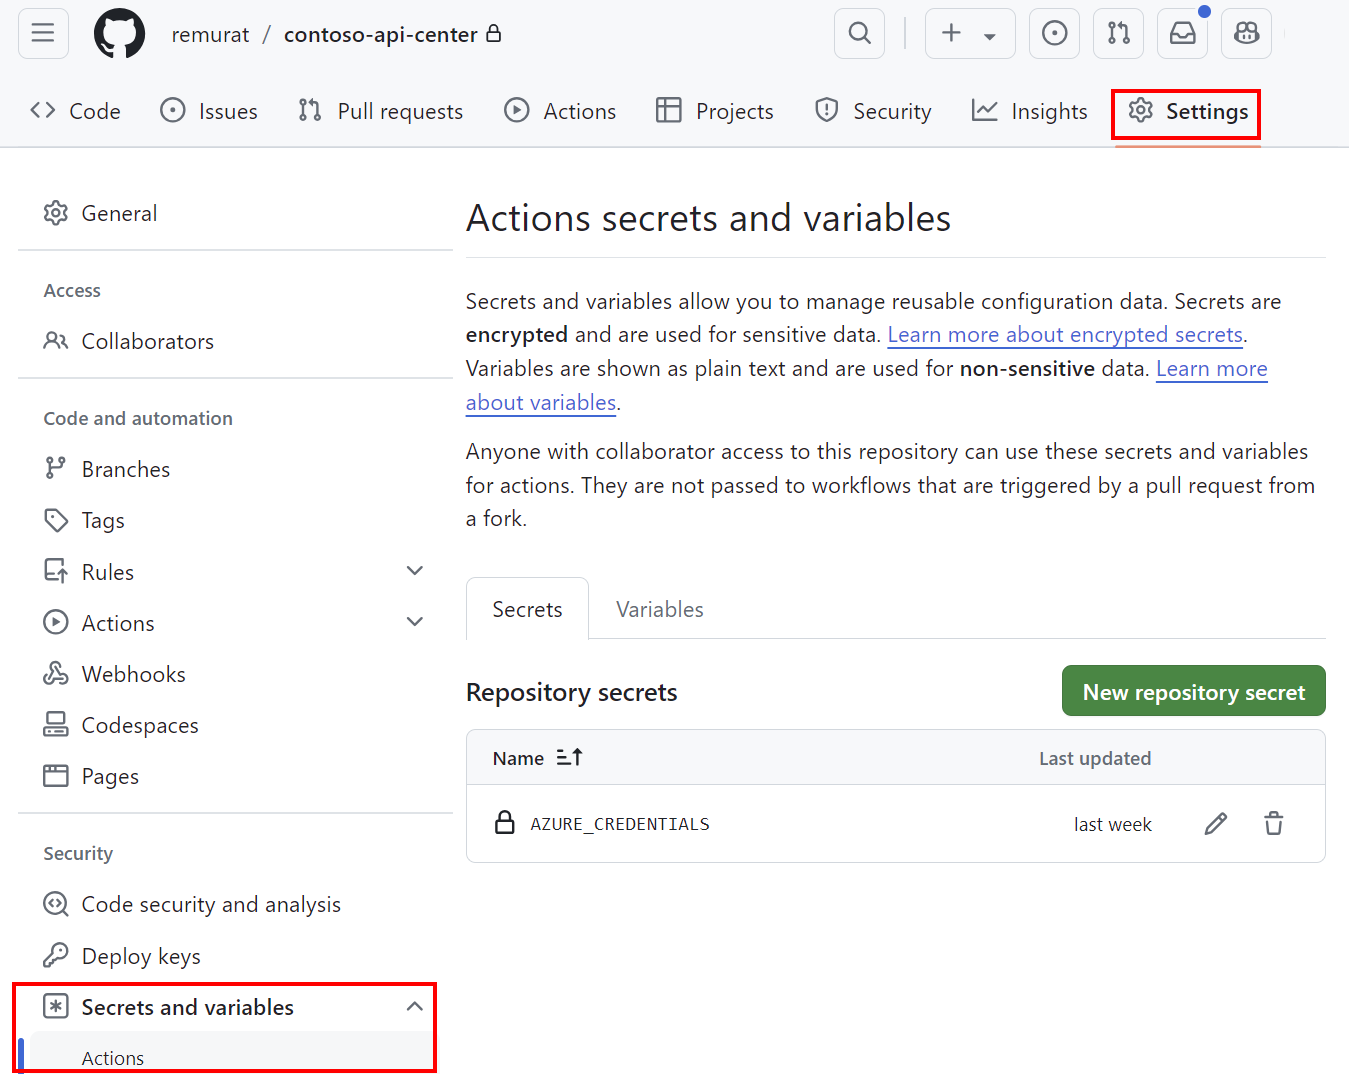
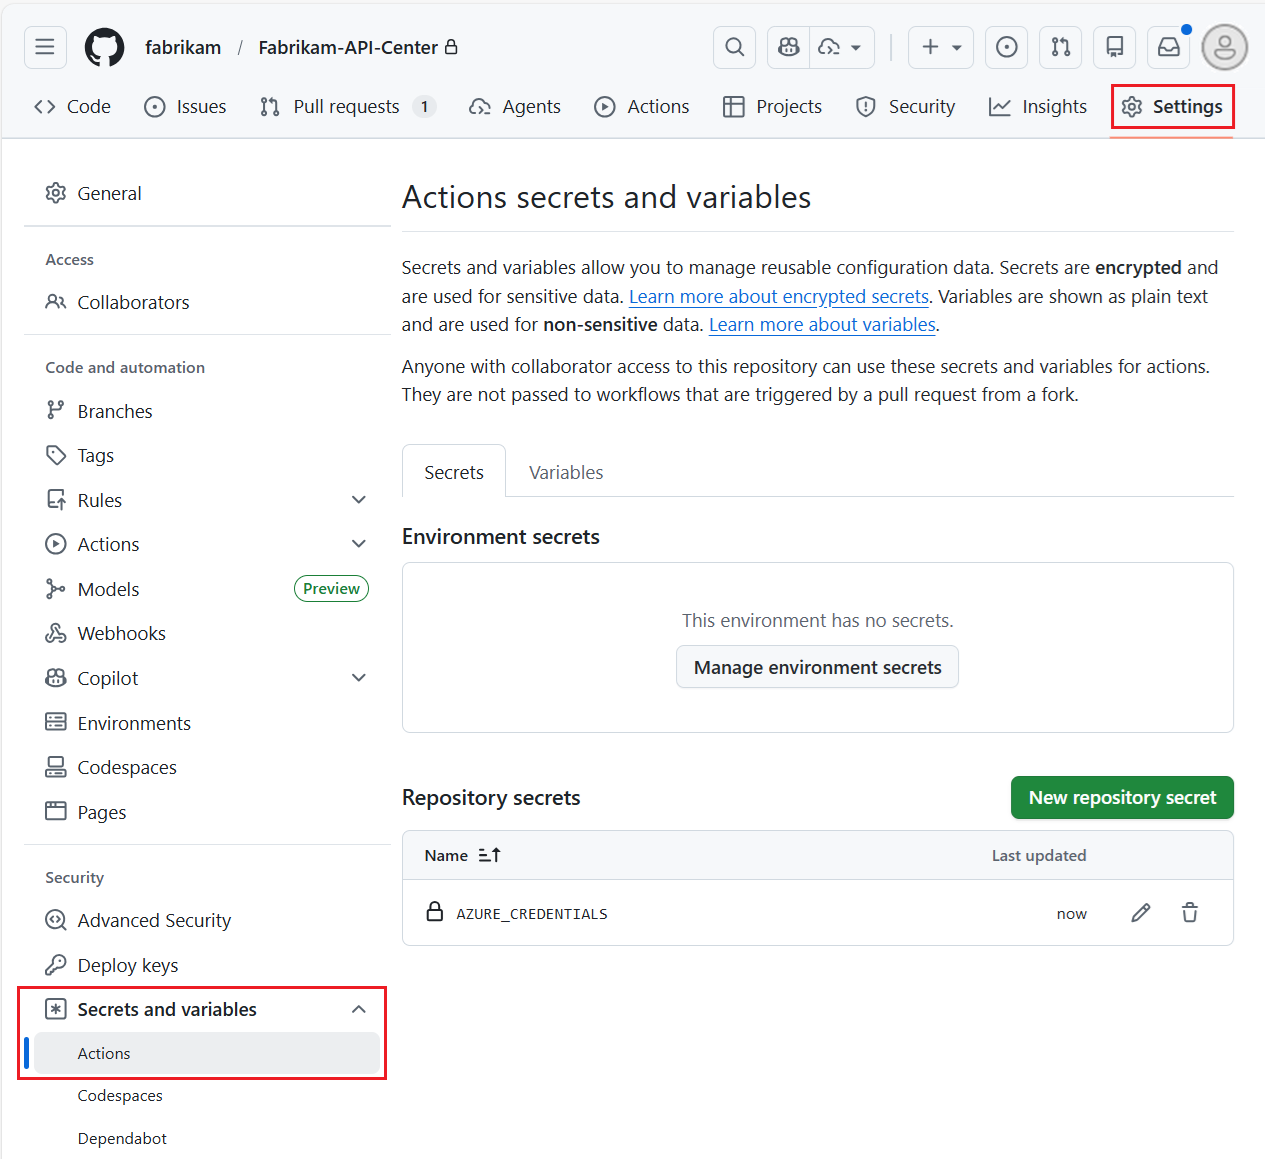
article freshness pass

diff --git a/articles/api-center/register-apis-github-actions.md b/articles/api-center/register-apis-github-actions.md
@@ -1,44 +1,51 @@
 ---
-title: Register APIs using GitHub Actions - Azure API Center
-description: Learn how to automate the registration of APIs in your API center using a CI/CD workflow based on GitHub Actions.
+title: Register APIs with GitHub Actions
+titleSuffix: Azure API Center
+description: Learn how to automate the registration of APIs in your API center by using a CI/CD workflow based on GitHub Actions.
 ms.service: azure-api-center
 ms.topic: how-to
-ms.date: 12/23/2024
-
-
+ms.date: 02/20/2026
+ms.author: danlep
+author: dlepow
 ms.custom: devx-track-azurecli
-# Customer intent: As an API developer, I want to automate the registration of APIs in my API center using a CI/CD workflow based on GitHub Actions.
+# Customer intent: As an API developer, I want to automate the registration of APIs in my API center by using a CI/CD workflow based on GitHub Actions.
 ---
 
-# Register APIs in your API center using GitHub Actions
+# Register APIs in your API center by using GitHub Actions
 
-This article shows how to set up a basic [GitHub Actions](https://docs.github.com/en/actions/learn-github-actions) workflow to register an API in your organization's [API center](overview.md) when an API specification file is added to a GitHub repository.
+This article shows how to set up a basic [GitHub Actions workflow](https://docs.github.com/en/actions/how-tos/write-workflows) to register an API in your organization's [API center](overview.md). The registration occurs when an API specification file is added to a GitHub repository.
 
 Using a GitHub Actions workflow to register APIs in your API center provides a consistent and repeatable CI/CD process for every new or updated API. The workflow can be extended to include steps such as adding metadata to the API registration.
 
-The following diagram shows how API registration in your API center can be automated using a GitHub Actions workflow.
+The following diagram shows how API registration in your API center can be automated with a GitHub Actions workflow.
 
-:::image type="content" source="media/register-apis-github-actions/scenario-overview.svg" alt-text="Diagram showing steps to trigger a GitHub actions workflow to register an API in an Azure API center." lightbox="media/register-apis-github-actions/scenario-overview.svg":::
+:::image type="content" source="media/register-apis-github-actions/scenario-overview.svg" border="false" alt-text="Diagram showing steps to trigger a GitHub actions workflow to register an API in an Azure API center." lightbox="media/register-apis-github-actions/scenario-overview.svg":::
 
-1. Set up a GitHub Actions workflow in your repository that triggers when a pull request adding an API definition file is merged.
+The process includes the following steps:
+
+1. Set up a GitHub Actions workflow in your repository that triggers when a pull request that adds an API definition file is merged.
 1. Create a branch from the main branch in your GitHub repository.
 1. Add an API definition file, commit the changes, and push to the new branch.
 1. Create a pull request to merge the new branch into the main branch.
 1. Merge the pull request.
 1. The merge triggers a GitHub Actions workflow that registers the API in your API center.
 
+> [!NOTE]
+> Azure CLI command examples in this article can run in PowerShell or a bash shell. Where needed because of different variable syntax, separate command examples are provided for the two shells.
+
 ## Prerequisites
 
-* An API center in your Azure subscription. If you haven't created one already, see [Quickstart: Create your API center](set-up-api-center.md).
-* Permissions to create a service principal in the Microsoft Entra ID tenant
-* A GitHub account and a GitHub repo in which you can configure secrets and GitHub Actions workflows
+* An API center in your Azure subscription. You can create an API center by following the procedure in [Quickstart: Create your API center (Azure portal)](set-up-api-center.md).
+
+* Permissions to create a service principal in the Microsoft Entra ID tenant.
+
+* A GitHub account and a GitHub repo in which you can configure secrets and GitHub Actions workflows.
+
 * For Azure CLI:
-    [!INCLUDE [include](~/reusable-content/azure-cli/azure-cli-prepare-your-environment-no-header.md)]
 
-    [!INCLUDE [install-apic-extension](includes/install-apic-extension.md)]
+   [!INCLUDE [include](~/reusable-content/azure-cli/azure-cli-prepare-your-environment-no-header.md)]
 
-    > [!NOTE]
-    > Azure CLI command examples in this article can run in PowerShell or a bash shell. Where needed because of different variable syntax, separate command examples are provided for the two shells.
+   [!INCLUDE [install-apic-extension](includes/install-apic-extension.md)]
 
 ## Set up a GitHub Actions workflow
 
@@ -50,12 +57,12 @@ In this section, you set up the GitHub Actions workflow for this scenario:
 
 ### Set up a service principal secret
 
-In the following steps, create a Microsoft Entra ID service principal, which will be used to add credentials to the workflow to authenticate with Azure.
+The following steps create a Microsoft Entra ID service principal, which is used to add credentials to the workflow to authenticate with Azure.
 
 > [!NOTE]
-> Configuring a service principal is shown for demonstration purposes. The recommended way to authenticate with Azure for GitHub Actions is with OpenID Connect, an authentication method that uses short-lived tokens. Setting up OpenID Connect with GitHub Actions is more complex but offers hardened security. [Learn more](../app-service/deploy-github-actions.md?tabs=openid%2Caspnetcore#generate-deployment-credentials)
+> Configuring a service principal is shown for demonstration purposes. The recommended way to authenticate with Azure for GitHub Actions is with OpenID Connect, an authentication method that uses short-lived tokens. Setting up OpenID Connect with GitHub Actions is more complex but offers hardened security. For more information, see [Deploy to Azure App Service by using GitHub Actions - Generate deployment credentials for OpenID Connect](../app-service/deploy-github-actions.md?tabs=openid%2Caspnetcore#generate-deployment-credentials).
 
-Create a service principal using the [az ad sp create-for-rbac](/cli/azure/ad#az-ad-sp-create-for-rbac) command. The following example first uses the [az apic show](/cli/azure/apic#az-apic-show) command to retrieve the resource ID of the API center. The service principal is then created with the Azure API Center Service Contributor role for the API center.
+Create a service principal by using the [az ad sp create-for-rbac](/cli/azure/ad#az-ad-sp-create-for-rbac) command. The following example first uses the [az apic show](/cli/azure/apic#az-apic-show) command to retrieve the resource ID of the API center. The service principal is then created with the Azure API Center Service Contributor role for the API center.
 
 #### [Bash](#tab/bash)
 
@@ -84,7 +91,7 @@ az ad sp create-for-rbac --name $spName --role "Azure API Center Service Contrib
 ```
 ---
 
-Copy the JSON output, which should look similar to the following:
+Copy the JSON output, which should look similar to the following example:
 
 ```json
 {
@@ -100,15 +107,19 @@ Copy the JSON output, which should look similar to the following:
 
 ### Add the service principal as a GitHub secret
 
-1. In [GitHub](https://github.com/), browse your repository. Select **Settings**. 
-1. Under **Security**, select **Secrets and variables** > **Actions** 
+After you have the service principal, add it as a GitHub secret:
+
+1. In [GitHub](https://github.com/), browse your repository, and select **Settings** in the top menu bar.
+
+1. In the left navigation under **Security**, select **Secrets and variables** > **Actions** 
+
 1. Select **New repository secret**.
-1. Paste the entire JSON output from the Azure CLI command into the secret's value field. Name the secret `AZURE_CREDENTIALS`. Select **Add secret**.
 
-    The secret is listed under **Repository secrets**.
+1. In the **Secret** field, paste the entire JSON output from the Azure CLI command. For the **Name**, enter `AZURE_CREDENTIALS`. Select **Add secret**.
 
-    :::image type="content" source="media/register-apis-github-actions/repository-secrets-github-small.png" alt-text="Screenshot of secrets for Actions in a GitHub repository." lightbox="media/register-apis-github-actions/repository-secrets-github.png":::
+   The secret is listed under **Repository secrets**.
 
+   :::image type="content" source="media/register-apis-github-actions/repository-secrets-github.png" alt-text="Screenshot of secrets for Actions in a GitHub repository." lightbox="media/register-apis-github-actions/repository-secrets-github.png":::
 
 When you configure the GitHub workflow file later, you use the secret for the input `creds` of the [Azure/login](https://github.com/marketplace/actions/azure-login) action. For example:
 
@@ -120,25 +131,32 @@ When you configure the GitHub workflow file later, you use the secret for the in
 
 ### Add the workflow file to your GitHub repository
 
-A GitHub Actions workflow is represented by a YAML (.yml) definition file. This definition contains the various steps and parameters that make up the workflow. [Learn more](https://docs.github.com/en/actions/using-workflows/workflow-syntax-for-github-actions)
+A GitHub Actions workflow is specified in a YAML (_.yml_) definition file. This definition contains the various steps and parameters that make up the workflow. For more information, see [Workflow syntax for GitHub Actions](https://docs.github.com/en/actions/reference/workflows-and-actions/workflow-syntax).
 
-The following is a basic workflow file for this example that you can use or modify. 
+The following example provides a basic workflow file that you can use or modify.
 
-In this example:
-* The workflow is triggered when a pull request that adds a JSON definition in the `APIs` path is closed on the main branch.
-* The location of the definition is extracted from the pull request using a GitHub script, which is authenticated with the default GitHub token.
-* The Azure credentials saved in your repo are used to sign into Azure.
+* The workflow triggers when a pull request that adds a JSON definition in the `APIs` path is closed on the main branch.
+
+* The location of the definition is extracted from the pull request by using a GitHub script, which is authenticated with the default GitHub token.
+
+* The Azure credentials saved in your repository are used to sign into Azure.
+
 * The [az apic register](/cli/azure/apic/api#az-apic-api-register) command registers the API in the API center specified in the environment variables.
 
-To configure the workflow file:
+Follow these steps to configure the workflow file:
 
 1. Copy and save the file under a name such as `register-api.yml`.
-1. Confirm or update the name of the repository folder (`APIs`) where you'll add the API definition file.
-1. Add this workflow file in the  `/.github/workflows/` path in your GitHub repository.
-1. Set the [Actions variables](https://docs.github.com/en/actions/writing-workflows/choosing-what-your-workflow-does/store-information-in-variables) `SERVICE_NAME` and `RESOURCE_GROUP` in your repo for your API center name and resource group name in Azure.
+
+1. Confirm or update the name of the repository folder (`APIs`) where you plan to add the API definition file.
+
+1. Add this workflow file in the `/.github/workflows/` path in your GitHub repository.
+
+1. Set the [Actions variables](https://docs.github.com/en/actions/how-tos/write-workflows/choose-what-workflows-do/use-variables) `SERVICE_NAME` and `RESOURCE_GROUP` in your repository for your API center name and resource group name in Azure.
 
 > [!TIP]
-> Using the [Visual Studio Code extension](build-register-apis-vscode-extension.md) for Azure API Center, you can generate a starting workflow file by running an extension command. In the Command Palette, select **Azure API Center: Register APIs**. Select **CI/CD** > **GitHub**. You can then modify or extend the file for your scenario.
+> Using the [Visual Studio Code extension](build-register-apis-vscode-extension.md) for Azure API Center, you can generate a starting workflow file by running an extension command. In the Command Palette (**Ctrl**+**Shift**+**P**), enter **Azure API Center: Register API** and select **CI/CD** > **GitHub**. You can then modify or extend the file for your scenario.
+
+Here's the example workflow file:
 
 ```yml
 name: Register API Definition to Azure API Center
@@ -195,39 +213,49 @@ jobs:
             az apic api register -g ${{ vars.RESOURCE_GROUP }} -n ${{ vars.SERVICE_NAME }} --api-location ${{ env.API_FILE_LOCATION }}
 ```
 
-
 ## Add API definition file to the repository
 
-Test the workflow by adding an API definition file to the repository. Follow these high-level steps, which are typical of a development workflow. For details on working with GitHub branches, see the [GitHub documentation](https://docs.github.com/en/github/collaborating-with-pull-requests/getting-started/about-collaborative-development-models).
+Test the workflow by adding an API definition file to the repository. Follow these high-level steps, which are typical of a development workflow. For details on working with GitHub branches, see [About collaborative development models](https://docs.github.com/en/pull-requests/collaborating-with-pull-requests/getting-started/about-collaborative-development-models) in the GitHub documentation.
 
 1. Create a new working branch from the main branch in your repository.
+
 1. Add the API definition file to the repository in the `APIs` path. For example, `APIs/catfacts-api/07-15-2024.json`.
+
 1. Commit the changes and push them to the working branch.
+
 1. Create a pull request to merge the working branch into the main branch.
+
 1. After review, merge the pull request. The merge triggers the GitHub Actions workflow that registers the API in your API center.
 
-    :::image type="content" source="media/register-apis-github-actions/workflow-action.png" alt-text="Screenshot showing successful workflow run in GitHub.":::
+   :::image type="content" source="media/register-apis-github-actions/workflow-action.png" alt-text="Screenshot showing successful workflow run in GitHub.":::
 
 ## Verify the API registration
 
 Verify that the API is registered in your API center.
 
-1. In the [Azure portal](https://portal.azure.com), navigate to your API center.
-1. In the left menu, under **Assets**, select **APIs**.
-1. Verify that the newly registered API appears in the list of APIs.
+1. In the [Azure portal](https://portal.azure.com), browse to your API center.
 
-:::image type="content" source="media/register-apis-github-actions/api-registered-api-center.png" alt-text="Screenshot of API registered in API Center after workflow."::: 
+1. In the left navigation, expand the **Inventory** section, and select **Assets**.
+
+1. Verify that the newly registered API appears in the list.
+
+:::image type="content" source="media/register-apis-github-actions/api-registered-api-center.png" alt-text="Screenshot of a new API registered in API Center after the workflow runs."::: 
 
 ## Add a new API version
 
-To add a new version to an existing API in your API center, follow the preceding steps, with a slight modification:
+You can add a new version to an existing API in your API center by following the same steps with a slight modification.
 
 1. Change to the same working branch in your repo, or create a new working branch.
+
 1. Add a new API definition file to the repository in the `APIs` path, in the folder for an existing API. For example, if you previously added a Cat Facts API definition, add a new version such as `APIs/catfacts-api/07-22-2024.json`.
+
 1. Commit the changes and push them to the working branch.
+
 1. Create a pull request to merge the working branch into the main branch.
+
 1. After review, merge the pull request. The merge triggers the GitHub Actions workflow that registers the new API version in your API center.
-1. In the Azure portal, navigate to your API center and confirm that the new version is registered.
+
+1. In the Azure portal, browse to your API center and confirm that the new version for the API is registered.
 
 ## Extend the scenario
 
@@ -235,29 +263,31 @@ You can extend the GitHub Actions workflow to include other steps, such as addin
 
 1. Using the [metadata schema](metadata.md) in your API center, create a metadata JSON file to apply metadata values to your API registration. 
 
-    For example, if the metadata schema includes properties such as `approver`, `team`, and `cost center`, a metadata JSON file might look like this:
+   For example, if the metadata schema includes properties such as `approver`, `team`, and `cost center`, a metadata JSON file might look like this:
 
-    ```json
-    {
-      "approver": "diego@contoso.com",
-      "team": "Store API dev team",
-      "costCenter": "12345"  
-    }
-    ```
+   ```json
+   {
+     "approver": "admin-user@contoso.com",
+     "team": "Store API dev team",
+     "costCenter": "12345"  
+   }
+   ```
+
 1. Upload a metadata JSON file in the folder for each API in the repository. 
-1. Add a workflow step to apply the metadata to the API registration using the [az apic api update](/cli/azure/apic/api#az-apic-api-update) command. In the following example, the API ID and metadata file are passed in environment variables, which would be set elsewhere in the workflow file.
 
-    ```yml
-    [...]
-    - name: Apply metadata to API in API Center
+1. Add a workflow step to apply the metadata to the API registration by using the [az apic api update](/cli/azure/apic/api#az-apic-api-update) command. In the following example, the API ID and metadata file are passed in environment variables, which would be set elsewhere in the workflow file.
+
+   ```yml
+   [...]
+   - name: Apply metadata to API in API Center
         uses: azure/CLI@v2
         with:
           azcliversion: latest
           inlineScript: |
             az apic api update -g ${{ vars.RESOURCE_GROUP }} -n ${{ vars.SERVICE_NAME }} --api-id {{ env.API_ID }} --custom-properties {{ env.METADATA_FILE }}
-    ```
+   ```
 
 ## Related content
 
-* [Using secrets in GitHub Actions](https://docs.github.com/en/actions/reference/encrypted-secrets)
-* [Creating configuration variables for a repository](https://docs.github.com/en/actions/using-workflows/workflow-syntax-for-github-actions)
+* [Secrets in GitHub Actions](https://docs.github.com/en/actions/how-tos/write-workflows/choose-what-workflows-do/use-secrets)
+* [Workflow syntax for GitHub Actions](https://docs.github.com/en/actions/reference/workflows-and-actions/workflow-syntax)

diff --git a/articles/api-center/includes/install-apic-extension.md b/articles/api-center/includes/install-apic-extension.md
@@ -1,17 +1,17 @@
 ---
 title: Include file
-description: Include file
+description: Notes about 'apic-extension' Azure CLI extension installation.
 services: api-center
-
+author: dlepow
 
 ms.service: azure-api-center
 ms.topic: include
-ms.date: 05/23/2024
-
+ms.date: 02/20/2026
+ms.author: danlep
 ms.custom: Include file
 ---
 
 > [!NOTE]
-> `az apic` commands require the `apic-extension` Azure CLI extension. If you haven't used `az apic` commands, the extension can be installed dynamically when you run your first `az apic` command, or you can install the extension manually. Learn more about [Azure CLI extensions](/cli/azure/azure-cli-extensions-overview).
+> The `az apic` commands require the `apic-extension` Azure CLI extension. If no `az apic` commands are used, the extension can be installed dynamically when you run your first `az apic` command, or you can install the extension manually. For more information, see [Manage Azure CLI Extensions: Install, Update, and Remove](/cli/azure/azure-cli-extensions-overview).
 >
-> See the [release notes](https://github.com/Azure/azure-cli-extensions/blob/main/src/apic-extension/HISTORY.rst) for the latest changes and updates in the `apic-extension`. Certain features may require a preview or specific version of the extension.
+> For the latest changes and updates in the `apic-extension`, see the [release notes](https://github.com/Azure/azure-cli-extensions/blob/main/src/apic-extension/HISTORY.rst). Certain features might require a preview or specific version of the extension.
